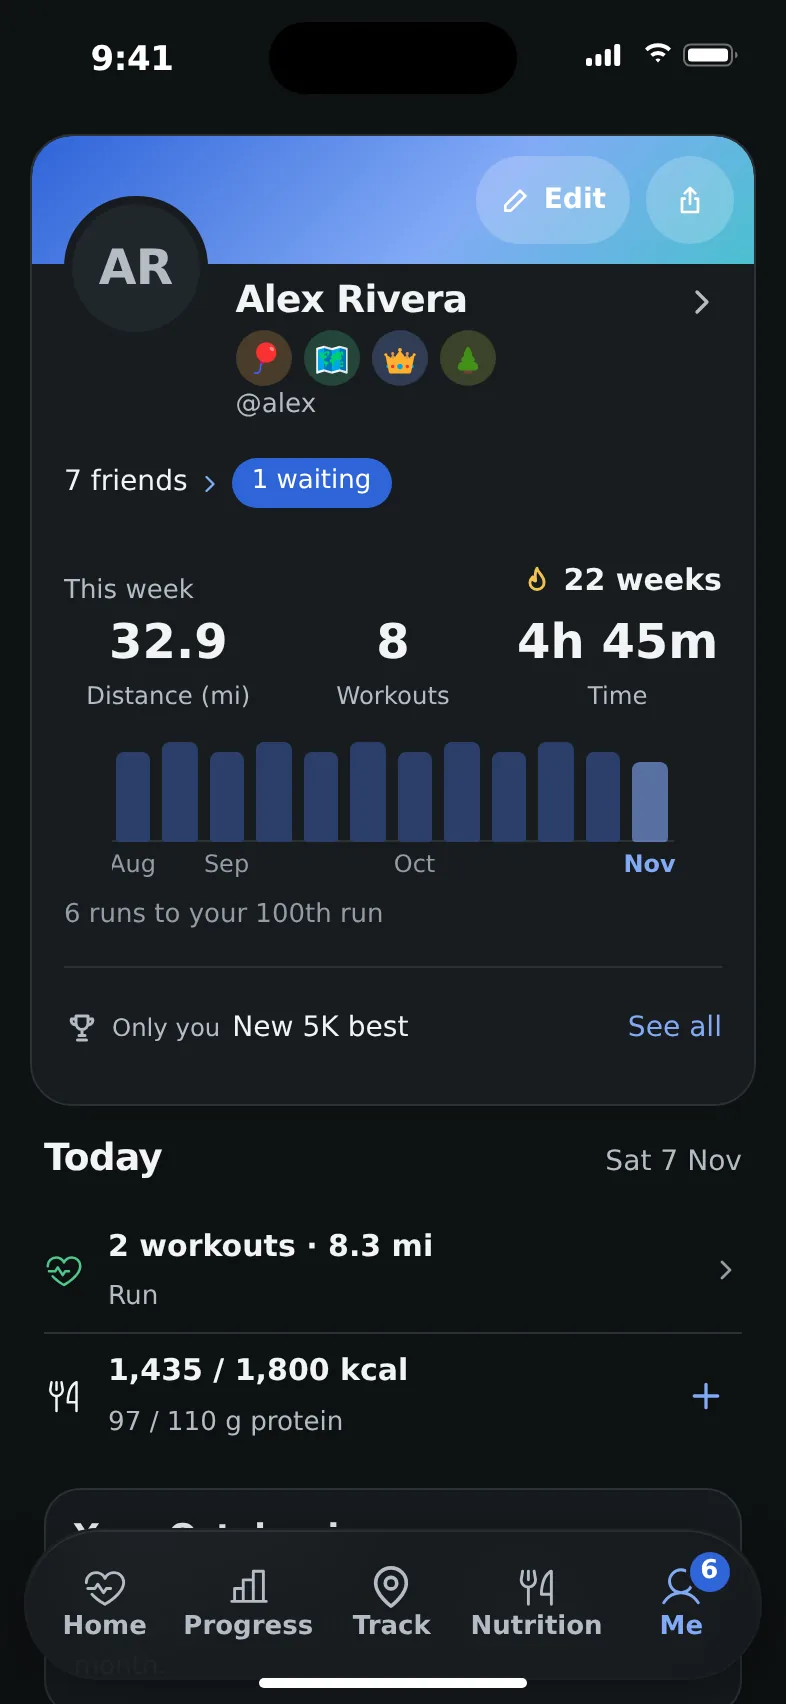
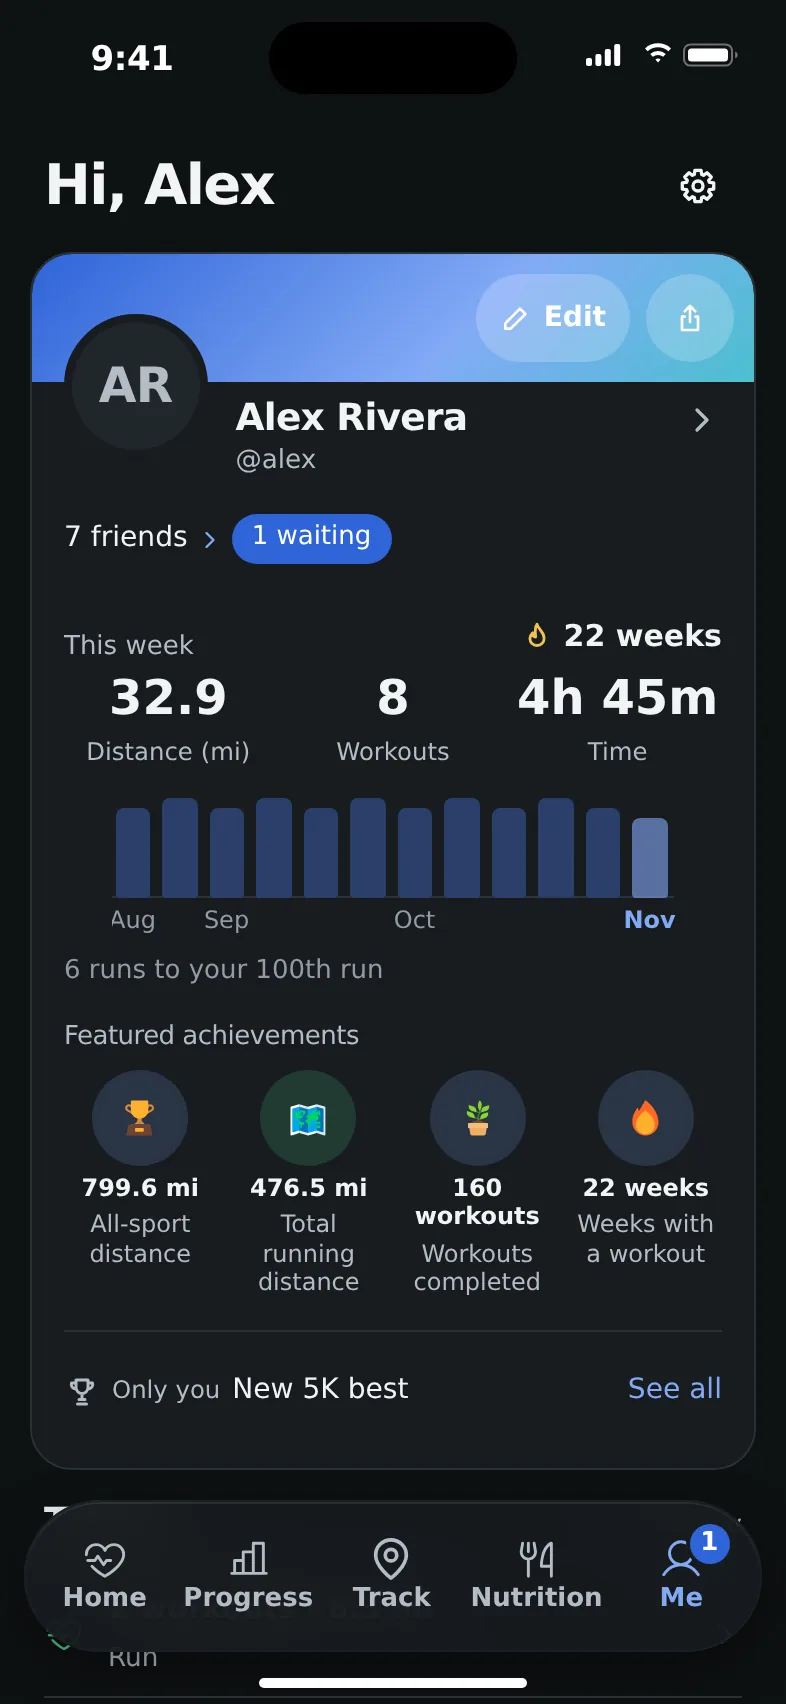
site: retake Home and Friends captures for navigation

diff --git a/dev/screenshots/take.js b/dev/screenshots/take.js
@@ -343,6 +343,10 @@ async function say(page, text) {
         const actual=(await title.innerText()).trim();
         if(actual!==ids.RUN_NAME)throw Error(`Activity detail keeps its recorded name "${ids.RUN_NAME}" (default names such as "Morning Run" are preserved), got "${actual}"`);
       }
+      if (opt.homeGroups) {
+        await page.locator('.home-view-switch a[href="/activity?view=groups"][aria-current="page"]').waitFor({state:'visible'});
+        await page.locator('#home-group-list .group-list-row').first().waitFor({state:'visible'});
+      }
       await page.evaluate(() => { window.scrollTo(0, 0); });
       await page.evaluate(() => document.fonts.ready);
       // Locator/evaluate polling works under the app’s strict script policy.
@@ -431,7 +435,9 @@ async function say(page, text) {
       }
       if (opt.meCard) {
         await page.locator('.me-card').first().waitFor({state: 'visible'});
-        await page.locator('.me-card .me-showcase-medal').first().waitFor({state: 'visible'});
+        const medals = page.locator('.me-card .me-featured-medal');
+        await medals.first().waitFor({state: 'visible'});
+        if (await medals.count() !== 4) throw Error('The fictional Me card should show four featured medals.');
       }
       if (opt.nutritionDay) {
         await page.getByText('Black coffee', {exact: true}).waitFor({state: 'visible'});

diff --git a/dev/screenshots/stage.py b/dev/screenshots/stage.py
@@ -148,6 +148,15 @@ group_state = alex('GET', '/api/groups/' + group_id)
 assert group_state['member_count'] == 7 and group_state.get('total') == 7, 'The screenshot group must show 7 of 10 sessions.'
 alex('POST', '/api/groups/' + group_id + '/updates', {'text': 'Seven sessions in. Keep the momentum going!'})
 
+# Feature earned fictional medals so the marketing screenshot shows the current Me card, not an empty showcase.
+showcase = alex('GET', '/api/achievements/showcase')
+available = {str(item.get('code')) for item in showcase.get('available', [])}
+featured = [code for code in ('journey', 'sport:run', 'workouts', 'consistency') if code in available]
+if len(featured) != 4:
+    raise RuntimeError('The fictional Me card needs four earned medals to feature.')
+pinned = alex('PUT', '/api/achievements/showcase/pins', {'pinned': featured})
+assert pinned.get('pinned') == featured, 'The screenshot Me card should feature four earned medals.'
+
 # Nutrition day fixture: a clear ring and three meal groups with fictional entries.
 today = local_today
 for entry in alex('GET', '/api/food/day?d=' + str(today))['entries']:
